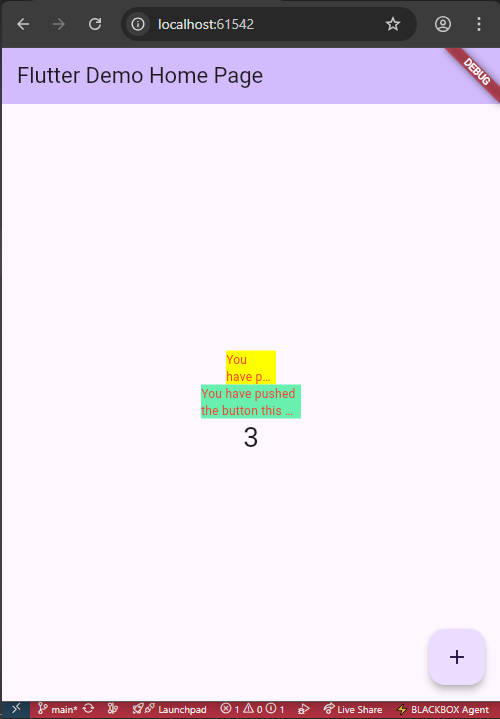
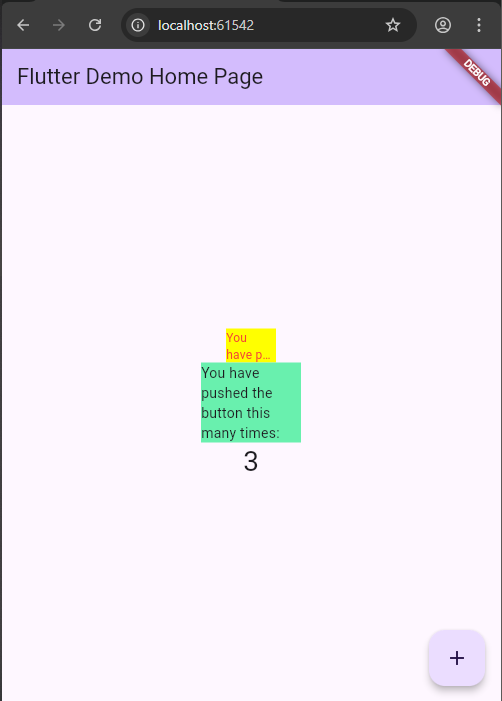
perbaikan img

Changed region(s): [[0.0, 0.0, 1.0, 1.0], [0.39, 0.4494, 0.6, 0.689]]

diff --git a/week07/flutter_plugin_pubdev/lib/main.dart b/week07/flutter_plugin_pubdev/lib/main.dart
@@ -60,8 +60,8 @@ class _MyHomePageState extends State<MyHomePage> {
             Container(
               color: Colors.greenAccent,
               width: 100,
-              child: const RedTextWidget(
-                text: 'You have pushed the button this many times:',
+              child: const Text(
+                'You have pushed the button this many times:',
               ),
             ),
             Text(

diff --git a/week07/flutter_plugin_pubdev/README.md b/week07/flutter_plugin_pubdev/README.md
@@ -156,6 +156,8 @@ class _MyHomePageState extends State<MyHomePage> {
 
 ![alt text](img/image.png)
 
+![alt text](image.png)
+
 ### Tugas Praktikum
 
 1. Selesaikan Praktikum tersebut, lalu dokumentasikan dan push ke repository Anda berupa screenshot hasil pekerjaan beserta penjelasannya di file README.md!
